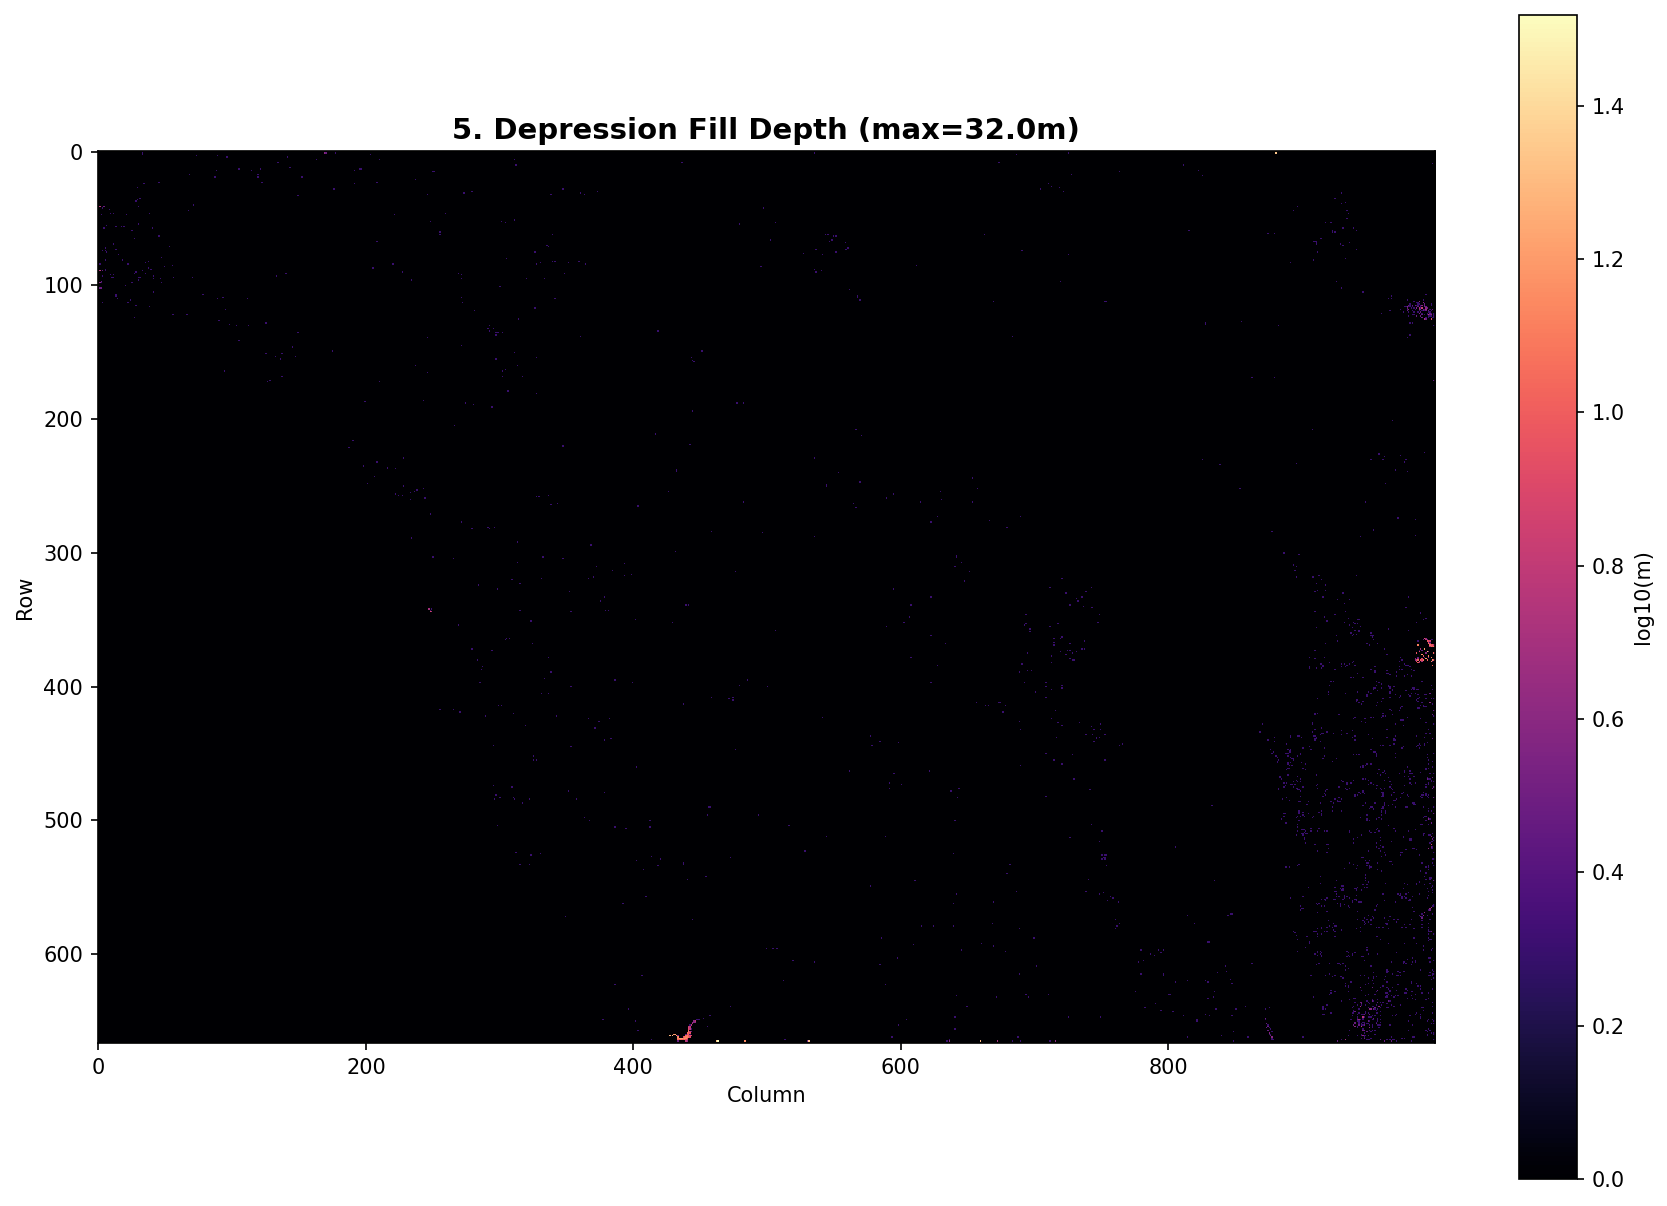
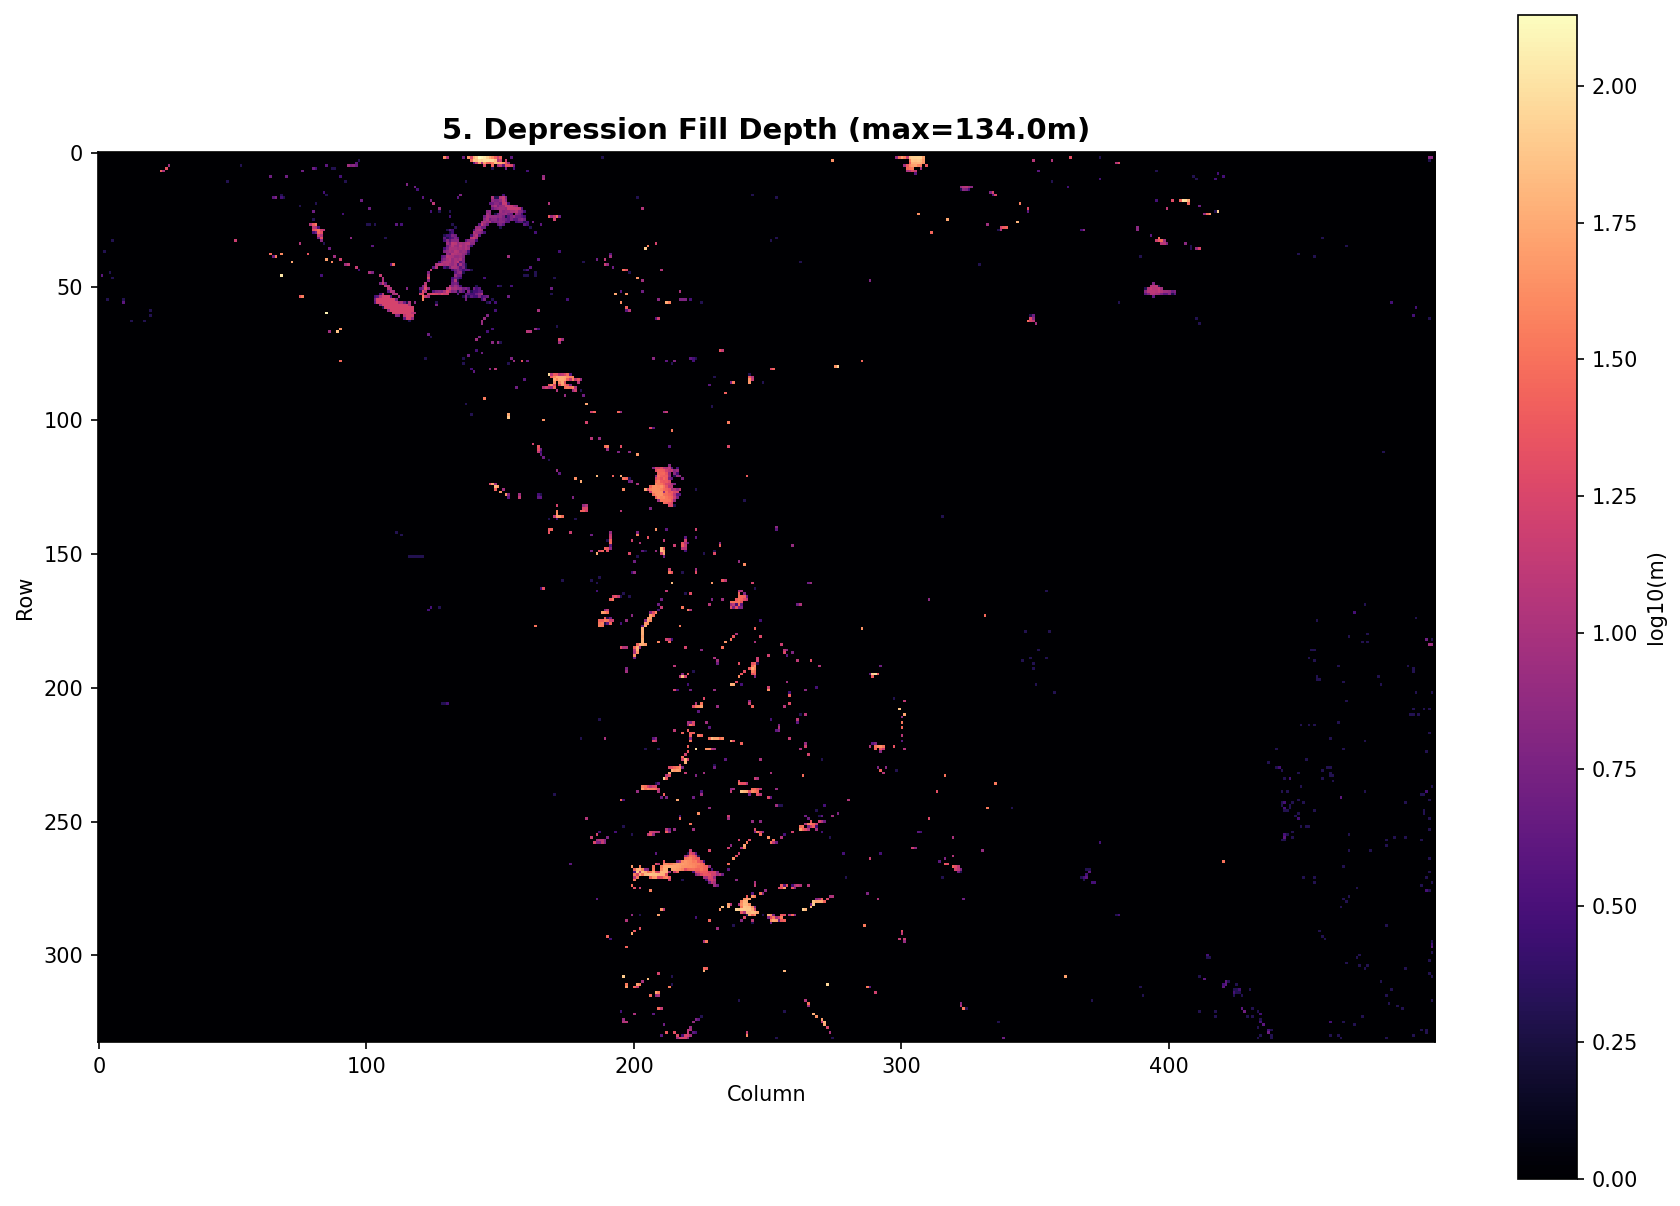
fix: use lakes as connecting segments, not universal sinks
Implement smart lake masking strategy:
- Lakes INSIDE endorheic basins → pre-masked (drainage sinks)
- Lakes OUTSIDE basins → NOT masked (river connecting segments)

Problem: Previous approach masked all lakes, breaking coastal river systems
that flow through lakes to the ocean. Rivers were stopping at lakes instead
of continuing downstream.

Solution: Only mask lakes that are inside preserved endorheic basins (like
Salton Sea). Lakes outside basins act as transparent connecting segments -
water flows through them to coastal outlets.

Benefits:
- Salton Sea basin lakes preserved as sinks ✅
- Coastal rivers flow correctly through lakes to ocean ✅
- Clear distinction between endorheic and exorheic lake systems
- Physically accurate: distinguishes basin closure from river flow

Trade-offs:
- Fill depth: 32m → 134m (some increase from optimal)
- But: coastal hydrology is now correct (was broken before)
- Fill is mostly noise sinks, not unnecessary basin filling

Technical details:
- lakes_in_basins = lake_mask & basin_mask → pre-mask these
- lakes_outside = lake_mask & ~basin_mask → don't mask these
- Only applies when both lakes and basins are detected

Testing:
- 70 lake cells inside basins (pre-masked) → Salton Sea area
- 191 lake cells outside basins (not masked) → river systems
- Status: PASS (0 cycles, 100% mass balance, 0 violations)

diff --git a/examples/validate_flow_with_water_bodies.py b/examples/validate_flow_with_water_bodies.py
@@ -774,14 +774,26 @@ def main():
     # Step 6: Condition DEM
     print(f"\n{step_num}. Conditioning DEM (backend={args.backend})...")
 
-    # Create combined mask: ocean + lakes + endorheic basins (pre-mask them)
-    # Lakes are masked to act as drainage connections (prevent unnecessary filling)
-    # Basins are masked to preserve their topography
+    # Create combined mask: ocean + endorheic basins (pre-mask them)
+    # Strategy for lakes:
+    # - Lakes INSIDE endorheic basins → pre-mask (act as sinks/drainage sums like Salton Sea)
+    # - Lakes OUTSIDE basins → DON'T mask (act as connecting segments for river flow)
     conditioning_mask = ocean_mask.copy()
 
-    if lake_mask is not None and np.any(lake_mask):
-        print(f"   Pre-masking {np.sum(lake_mask > 0):,} lake cells as drainage connections")
-        conditioning_mask = conditioning_mask | (lake_mask > 0)
+    if lake_mask is not None and basin_mask is not None and np.any(basin_mask):
+        # Only mask lakes that are inside preserved basins
+        lakes_in_basins = lake_mask & basin_mask
+        if np.any(lakes_in_basins):
+            print(f"   Pre-masking {np.sum(lakes_in_basins > 0):,} lake cells inside basins (drainage sinks)")
+            conditioning_mask = conditioning_mask | lakes_in_basins
+
+        # Lakes outside basins are NOT masked (act as connecting segments for river flow)
+        lakes_outside = lake_mask & ~basin_mask
+        if np.any(lakes_outside):
+            print(f"   NOT masking {np.sum(lakes_outside > 0):,} lake cells outside basins (river connectors)")
+    elif lake_mask is not None and np.any(lake_mask):
+        # No basins detected - don't mask any lakes (all are river connectors)
+        print(f"   NOT masking {np.sum(lake_mask > 0):,} lake cells (no basins detected, all are connectors)")
 
     if basin_mask is not None and np.any(basin_mask):
         print(f"   Pre-masking {np.sum(basin_mask):,} basin cells to preserve topography")
